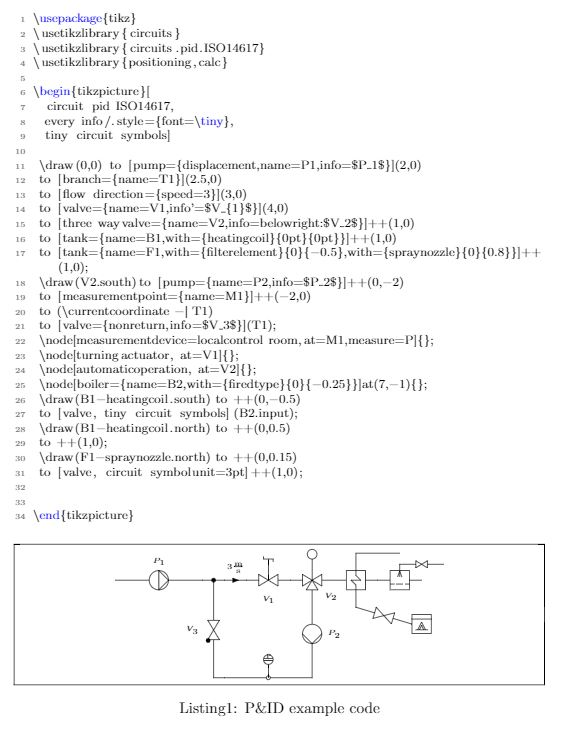
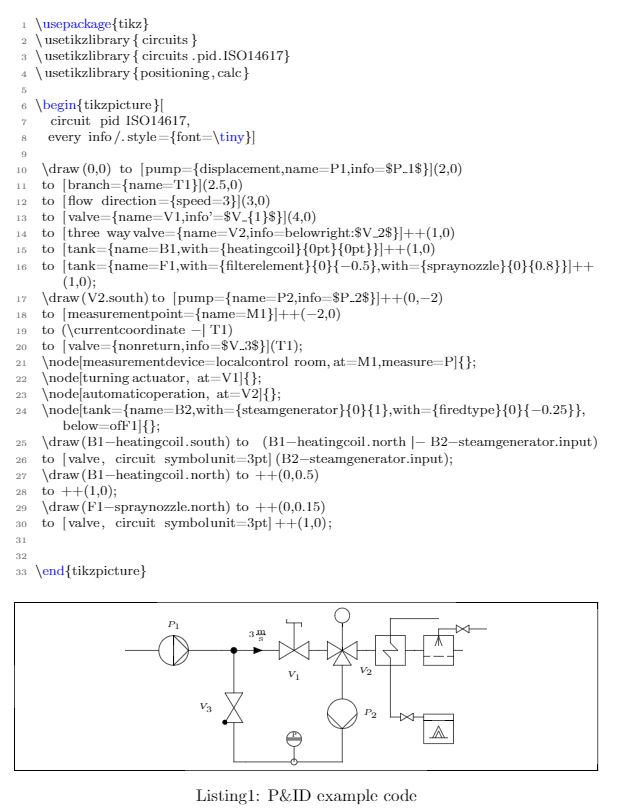
Made boiler placeable using with

Changed region(s): [[0.0302, 0.0, 0.968, 0.9973], [0.0, 0.748, 0.0302, 0.935], [0.9377, 0.9038, 0.968, 0.9661]]

diff --git a/example.tex b/example.tex
@@ -54,8 +54,7 @@ preset=\centering, pos=b
 
  \begin{tikzpicture}[
    circuit pid ISO14617,
-   every info/.style={font=\tiny},
-   tiny circuit symbols]
+   every info/.style={font=\tiny}]
 
   \draw (0,0) to [pump={displacement,name=P1,info=$P_1$}] (2,0)
   to [branch={name=T1}] (2.5,0)
@@ -71,10 +70,10 @@ preset=\centering, pos=b
   \node[measurement device=local control room, at=M1, measure=P]{};
   \node[turning actuator, at=V1]{};
   \node[automatic operation, at=V2]{};
-  \node[boiler={name=B2, with={fired type}{0}{-0.25}}] at (7,-1){};
-  \draw (B1-heating coil.south) to ++(0,-0.5)
-  to [valve, tiny circuit symbols] (B2.input);
-  \draw (B1-heating coil.north) to ++(0,0.5)
+  \node[tank={name=B2, with={steam generator}{0}{1}, with={fired type}{0}{-0.25}}, below=of F1] {};
+  \draw (B1-heating coil.south) to  (B1-heating coil.north |- B2-steam generator.input)
+  to [valve, circuit symbol unit=3pt] (B2-steam generator.input);
+  \draw (B1-heating coil.north) to ++(0, 0.5)
   to ++(1,0);
   \draw (F1-spray nozzle.north) to ++(0,0.15)
   to [valve, circuit symbol unit=3pt] ++(1, 0);

diff --git a/tikzlibrarycircuits.pid.ISO14617.code.tex b/tikzlibrarycircuits.pid.ISO14617.code.tex
@@ -299,7 +299,8 @@
 % Boiler, steam generator
 \tikzset{2531 ISO14617 graphic/.style={
    circuit symbol lines,
-   circuit symbol size = width 2.5 height 2.5,
+   circuit symbol size = width 2.5 height 0.5,
+   draw=none,
    shape=generic rectangle ISO14617,
    /pgf/generic rectangle ISO14617/before background={
     \pgf@process{\southwest}
@@ -308,8 +309,8 @@
     \pgf@process{\northeast}
     \pgf@xb=\pgf@x
     \pgf@yb=\pgf@y
-    \pgfpathmoveto{\pgfqpoint{\pgf@xa}{0.5\pgf@yb}}
-    \pgfpathlineto{\pgfqpoint{\pgf@xb}{0.5\pgf@yb}}
+    \pgfpathmoveto{\pgfqpoint{\pgf@xa}{\pgf@ya}}
+    \pgfpathlineto{\pgfqpoint{\pgf@xb}{\pgf@ya}}
     \pgfusepathqstroke
     },
    transform shape,
